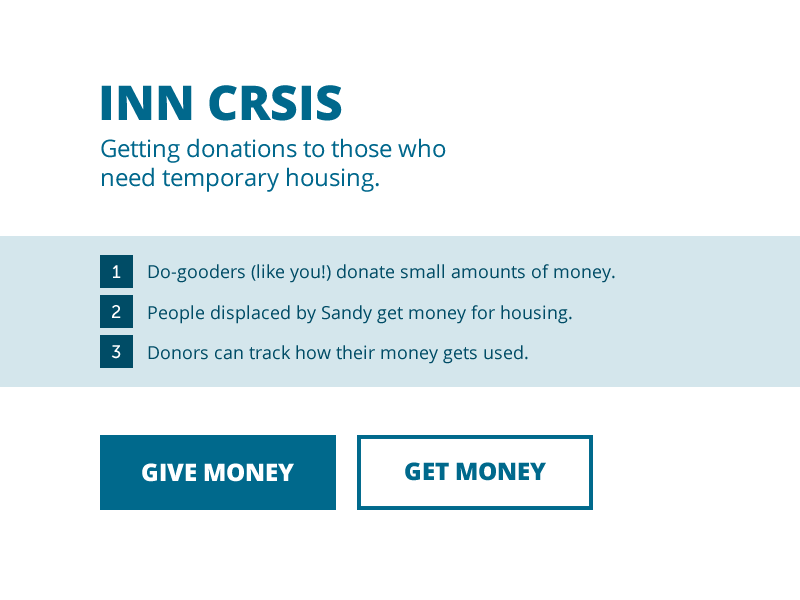
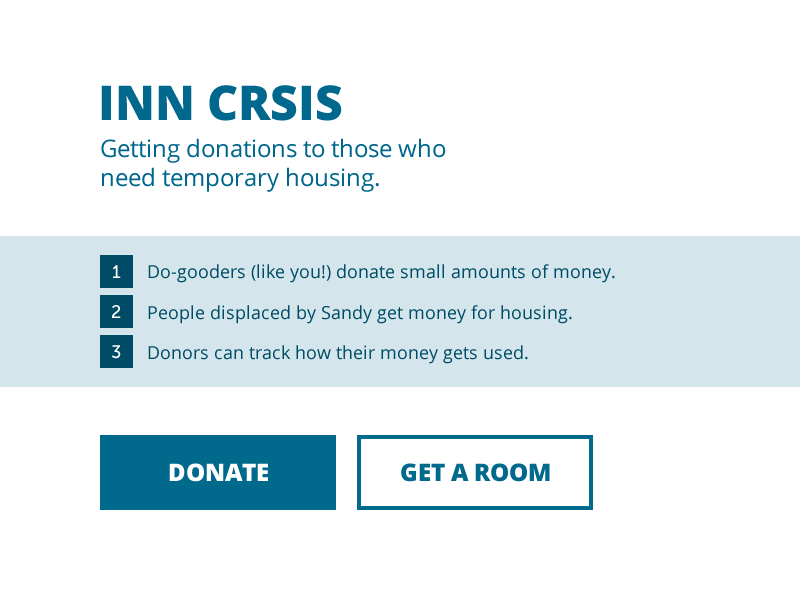
Styling the home page.

Changed region(s): [[0.1562, 0.75, 0.375, 0.81], [0.5, 0.75, 0.6875, 0.81]]

diff --git a/templates/index.html b/templates/index.html
@@ -1,6 +1,20 @@
 {% extends "layout.html" %}
 
 {% block content %}
+  <div class="section highlighted">
+    <ol>
+      <li>Do-gooders (like you!) donate small amounts of money.</li>
+      <li>People displaced by natural disasters get housing.</li>
+      <li>Donors track how their money gets used.</li>
+    </ol>
+  </div>
+
+  <div class="section">
+    <a href="#" class="button major">Donate</a>
+    <a href="#" class="button minor">Get a Room</a>
+  </div>
+
+{#
   <div class="collected">
     <a class="wepay-widget-button wepay-green" id="wepay_widget_anchor_50954f3fa5f6a" href="https://www.wepay.com/donations/890705390">View Progress</a><script type="text/javascript">var WePay = WePay || {};WePay.load_widgets = WePay.load_widgets || function() { };WePay.widgets = WePay.widgets || [];WePay.widgets.push( {object_id: 890705390,widget_type: "donation_campaign_progress",anchor_id: "wepay_widget_anchor_50954f3fa5f6a",widget_options: {no_dialog: "true",total_collected: "true",button_text: "View Progress"}});if (!WePay.script) {WePay.script = document.createElement('script');WePay.script.type = 'text/javascript';WePay.script.async = true;WePay.script.src = 'https://static.wepay.com/min/js/widgets.v2.js';var s = document.getElementsByTagName('script')[0]; s.parentNode.insertBefore(WePay.script, s);} else if (WePay.load_widgets) {WePay.load_widgets();}</script>
   </div>
@@ -11,4 +25,5 @@
   <div class="getARoom">
     <a href="getARoom.html">Get A Room</a>
   </div>
+#}
 {% endblock %}

diff --git a/public/styles/styles.less b/public/styles/styles.less
@@ -1,7 +1,7 @@
 @import url(http://fonts.googleapis.com/css?family=Open+Sans:400,400italic,800);
 
 /* Reset */
-html, body, div, ul, li {
+html, body, h1, p, div, ol, li {
   margin: 0;
   padding: 0;
 }
@@ -9,9 +9,62 @@ html, body, div, ul, li {
 /* Typography */
 body {
     font-family: "Open Sans", sans-serif;
+    color: #00678C;
+    font-size: 18px;
 }
 
 h1 {
     font-weight: 800;
     font-size: 48px;
+    text-transform: uppercase;
+}
+
+#description {
+    font-size: 24px;
+    line-height: 120%;
+}
+
+/* Layout */
+#header {
+    padding: 50px 18% 30px;
+}
+
+.section {
+    padding: 30px 18%;
+}
+
+.highlighted {
+    background: #D4E6EC;
+    color: #004C66;
+}
+
+/* Buttons */
+.button {
+    text-decoration: none;
+    text-transform: uppercase;
+    font-weight: 800;
+    font-size: 24px;
+    color: #00678C;
+    border: 4px solid #00678C;
+    padding: 20px;
+    width: 180px;
+    display: block;
+    text-align: center;
+    margin-right: 20px;
+    float: left;
+}
+
+.button:active {
+    color: #fff;
+    background: #00678C;
+}
+
+.button.major {
+    color: #fff;
+    background: #00678C;
+}
+
+.button.major:active {
+    background: #004C66;
+    border-color: #004C66;
 }

diff --git a/public/styles/styles.css b/public/styles/styles.css
@@ -1,1 +1,12 @@
-body{background-color:grey;}
+@import url(http://fonts.googleapis.com/css?family=Open+Sans:400,400italic,800);
+html,body,h1,p,div,ol,li{margin:0;padding:0;}
+body{font-family:"Open Sans",sans-serif;color:#00678C;font-size:18px;}
+h1{font-weight:800;font-size:48px;text-transform:uppercase;}
+#description{font-size:24px;line-height:120%;}
+#header{padding:50px 18% 30px;}
+.section{padding:30px 18%;}
+.highlighted{background:#D4E6EC;color:#004C66;}
+.button{text-decoration:none;text-transform:uppercase;font-weight:800;font-size:24px;color:#00678C;border:4px solid #00678C;padding:20px;width:180px;display:block;text-align:center;margin-right:20px;float:left;}
+.button:active{color:#fff;background:#00678C;}
+.button.major{color:#fff;background:#00678C;}
+.button.major:active{background:#004C66;border-color:#004C66;}

diff --git a/templates/layout.html b/templates/layout.html
@@ -7,16 +7,13 @@
     <meta name="description" content="Getting donations to those who need temporary housing." />
       
     <script src="//ajax.googleapis.com/ajax/libs/jquery/1.8.2/jquery.min.js"></script>
-
     <script src="/src/hotelSandy.js"></script>
     <link type="text/css" rel="stylesheet" href="/styles/styles.css">
   </head>
   <body>
     <div id="header">
       <h1>Inn Crisis</h1>
-      <p id="description">
-        Getting donations to those who need temporary housing.
-      </p>
+      <p id="description">Getting donations to those who need temporary housing.</p>
     </div>
     {% block content %}{% endblock %}
   </body>
